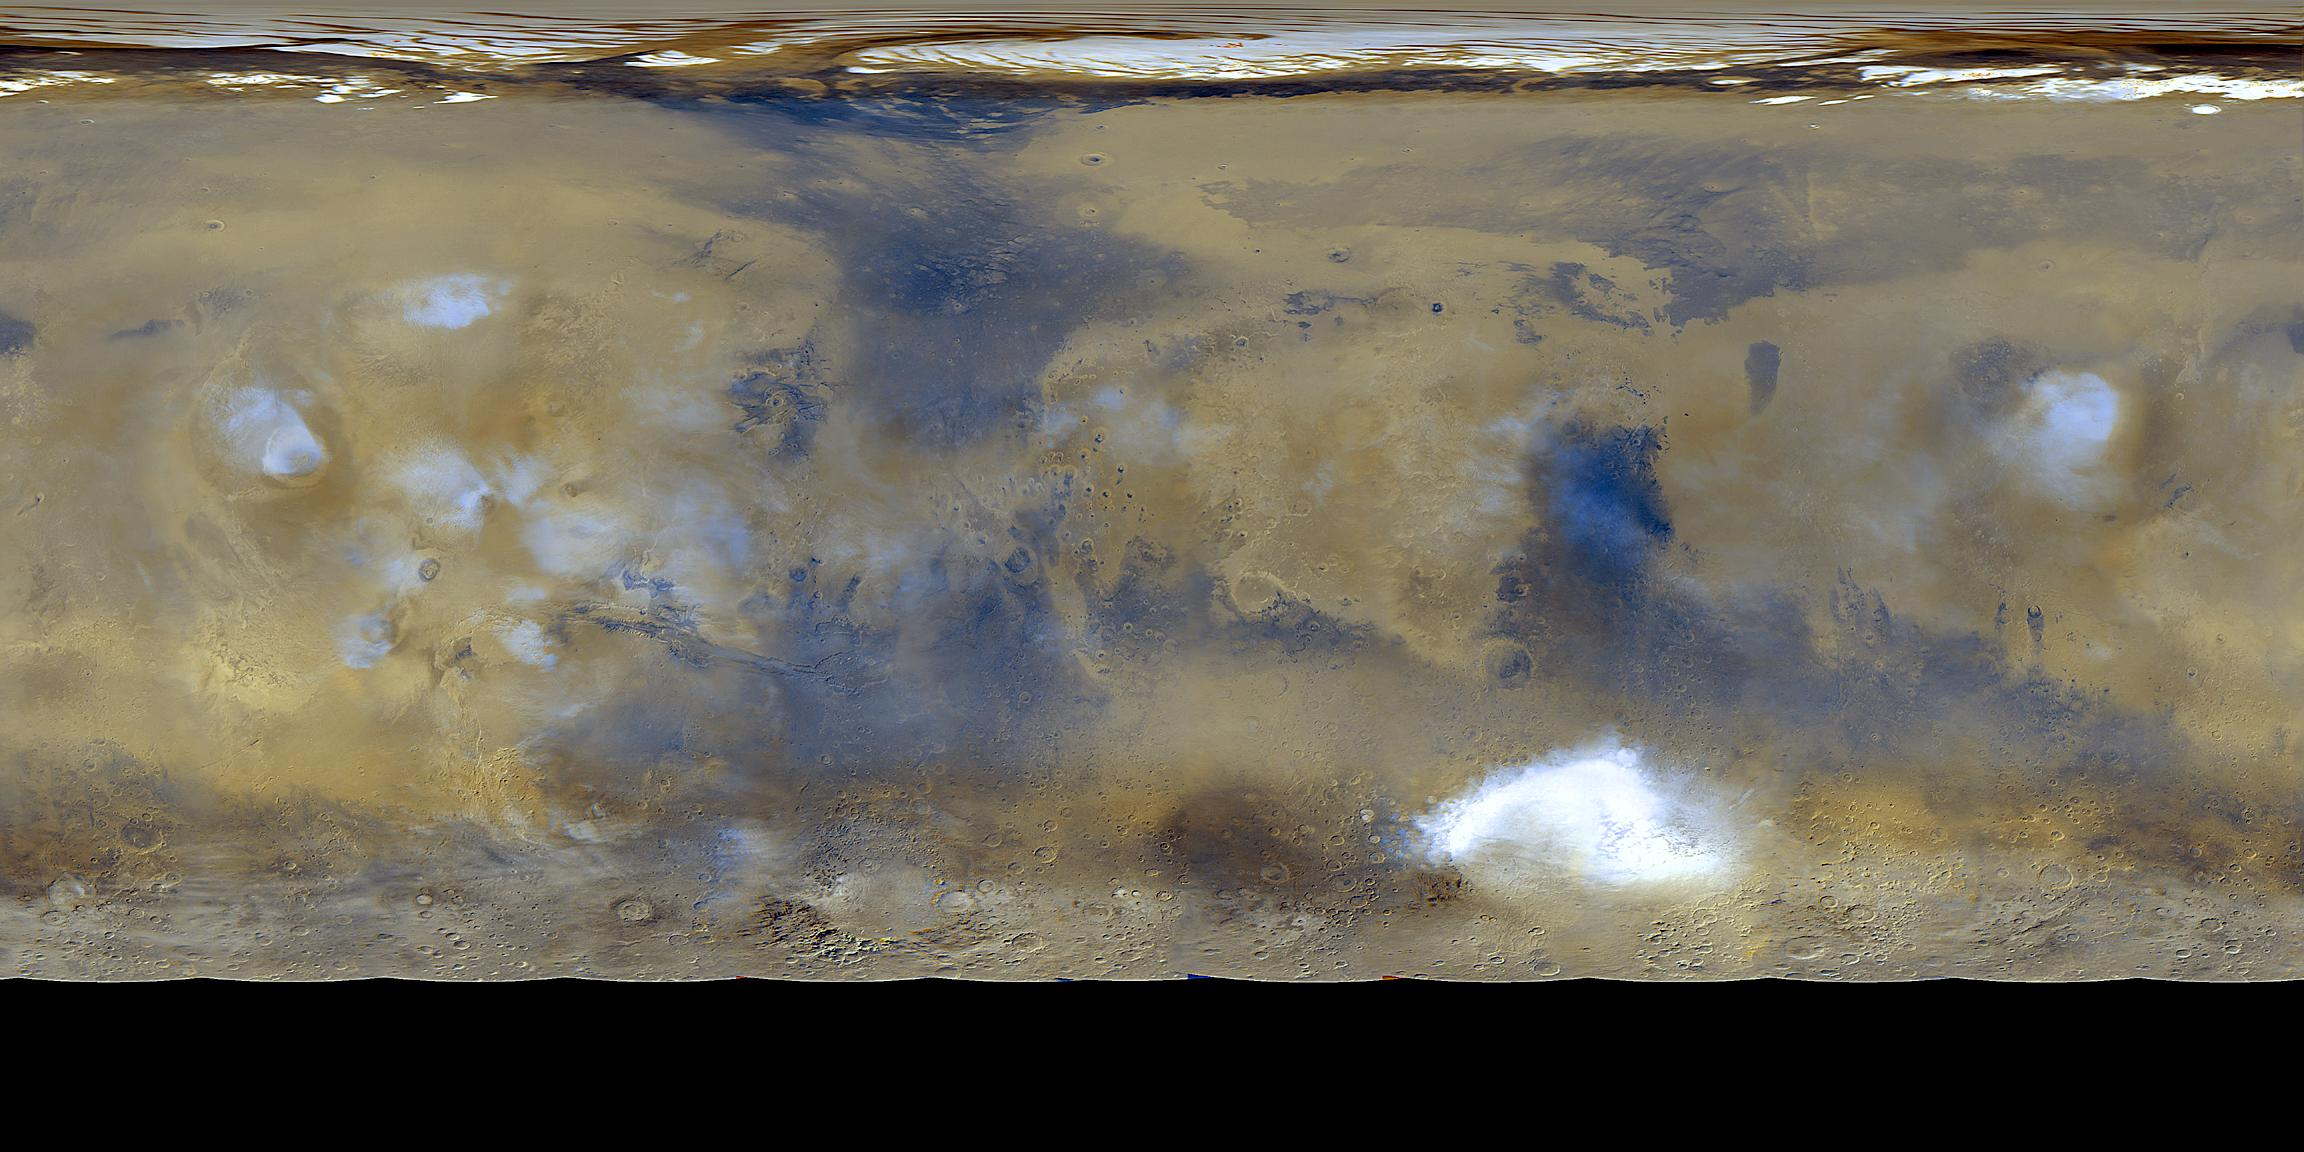
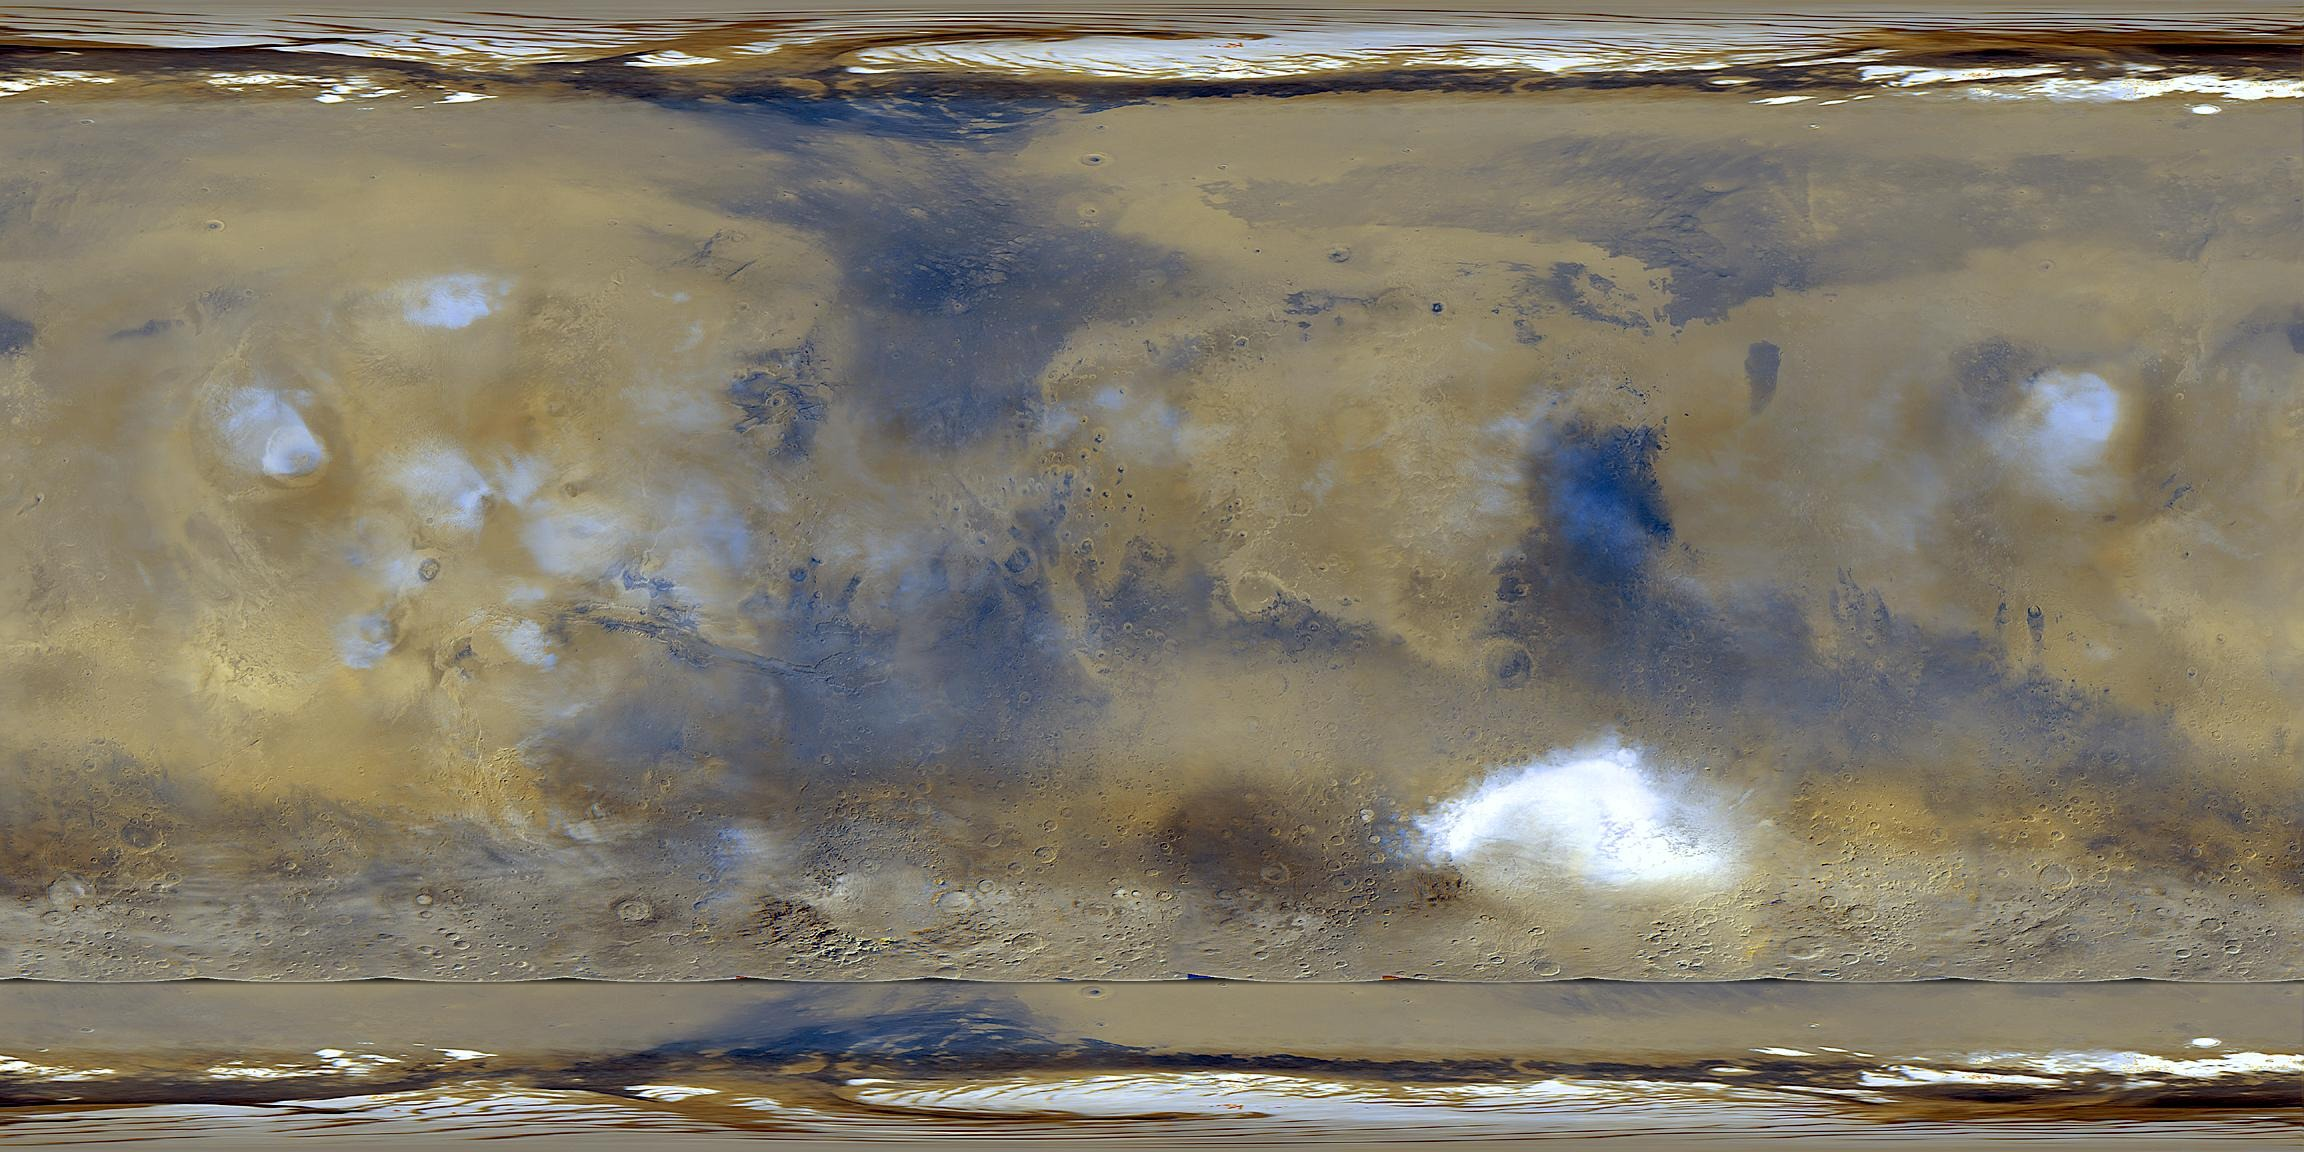
Fill Mars south-pole black band with mirrored north hemisphere
The NASA PIA02066 source map only covers Mars down to ~64°S; the band
between there and the south pole (y=983..1151 in the 2304×1152
equirectangular) is solid black in the original release because the
mosaic was captured on a single April-1999 day during southern winter
darkness. That left a hard black skullcap on the rendered globe.

Filled the band with a vertically-mirrored copy of the north
hemisphere (output[y] = input[H-1-y]) with an 8-row linear cross-fade
across the seam at y=977 so the transition isn't a hard line. The
output's bottom row equals the top row exactly, which is what
equirectangular wrapping wants at the pole. Updated CREDITS.md to
document the synthesis — the mirrored pixels are not Mars surface
data and should not be cited as such.

Changed region(s): [[0.0, 0.8438, 1.0, 1.0]]

diff --git a/godot/resources/3D/mars/CREDITS.md b/godot/resources/3D/mars/CREDITS.md
@@ -13,4 +13,17 @@ equirectangular). Higher-resolution variants exist at NASA but at the camera
 distances used by the in-game planet renderer this resolution already exceeds
 the target framebuffer's sampling rate.
 
+## South-pole synthesis
+
+The PIA02066 source map covers Mars only down to ~64°S — the band between
+that latitude and the south pole is solid black in NASA's release (the
+imaging campaign that produced the mosaic was a single April-1999 day,
+during which the south polar cap was in winter darkness). For continuity in
+the in-game planet renderer the missing band has been filled with a
+vertically-mirrored copy of the corresponding north hemisphere (rows
+`H-1-y` ↦ `y`), with an 8-row linear cross-fade across the seam at y=977
+to hide the discontinuity. The mirrored south-pole pixels are not
+photographic and should not be cited as Mars surface data; they exist
+solely so the rendered globe doesn't have a black skullcap.
+
 [pia]: https://photojournal.jpl.nasa.gov/catalog/PIA02066
